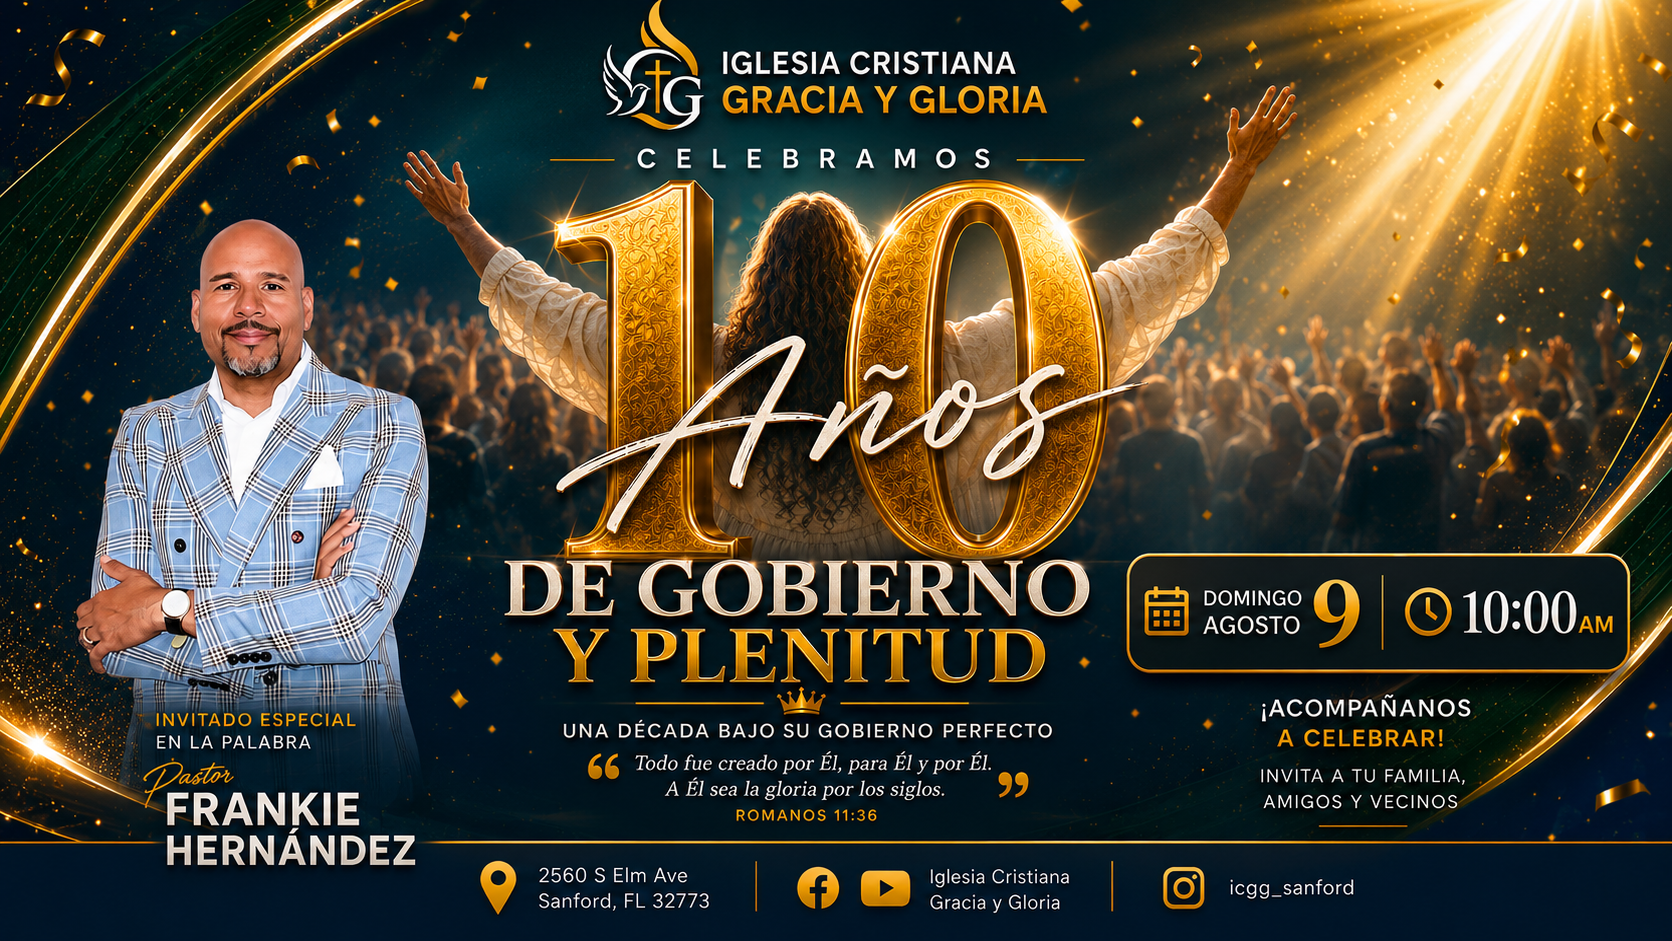
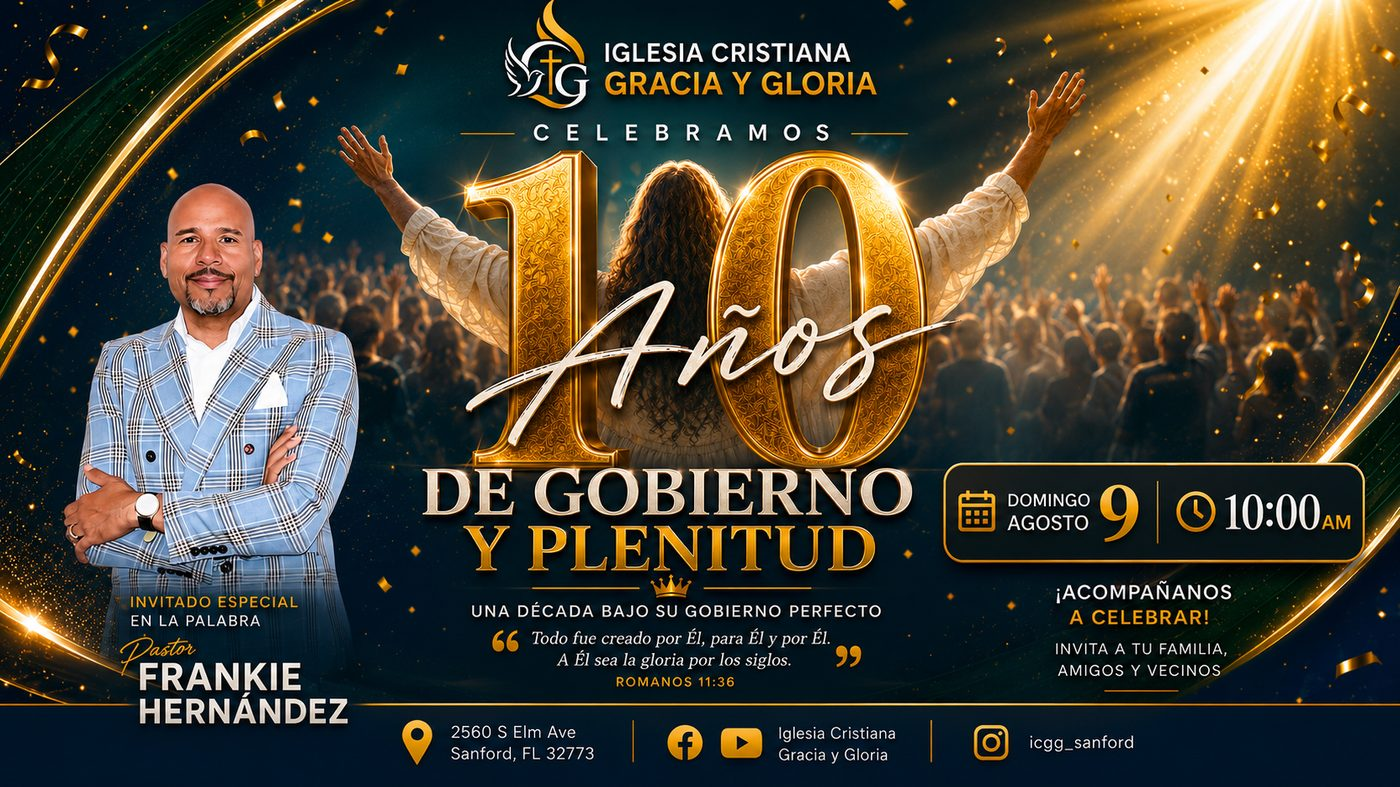
Add files via upload

diff --git a/src/components/Newcomers.tsx b/src/components/Newcomers.tsx
@@ -5,9 +5,9 @@ import { Users, Heart, Calendar, Gift, MapPin, Coffee, BookOpen, Handshake, Cloc
 
 const Newcomers = () => {
   const { t } = useLanguage();
-  const greeterImg = useSiteImage('newcomers_greeter', '/greeter.png');
+  const greeterImg = useSiteImage('newcomers_greeter', '/greeter.jpg');
   const noraImg = useSiteImage('newcomers_worship', '/nora.JPG');
-  const communityImg = useSiteImage('newcomers_community', '/Community_outreach_in_action_with_joy.png');
+  const communityImg = useSiteImage('newcomers_community', '/Community_outreach_in_action_with_joy.jpg');
 
   return (
     <section id="newcomers" className="py-20 bg-gradient-to-b from-white to-gray-50">
